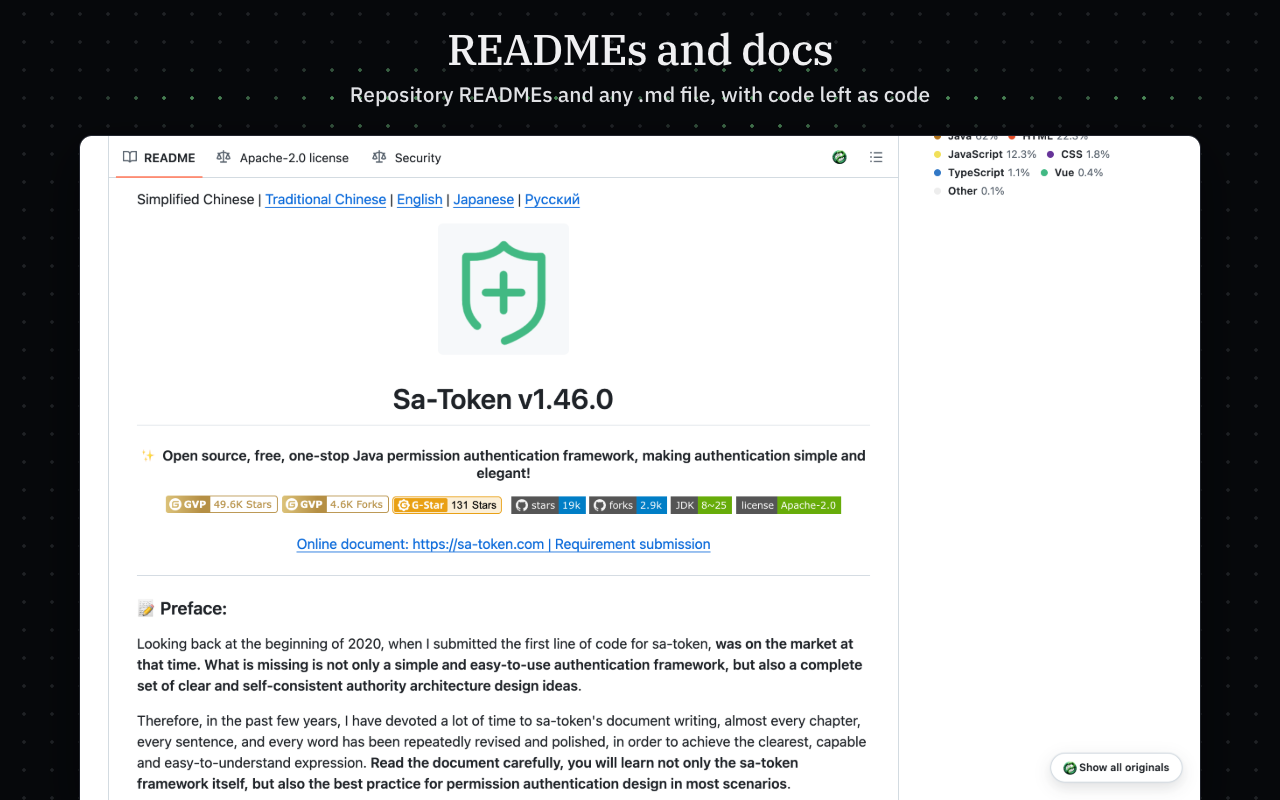
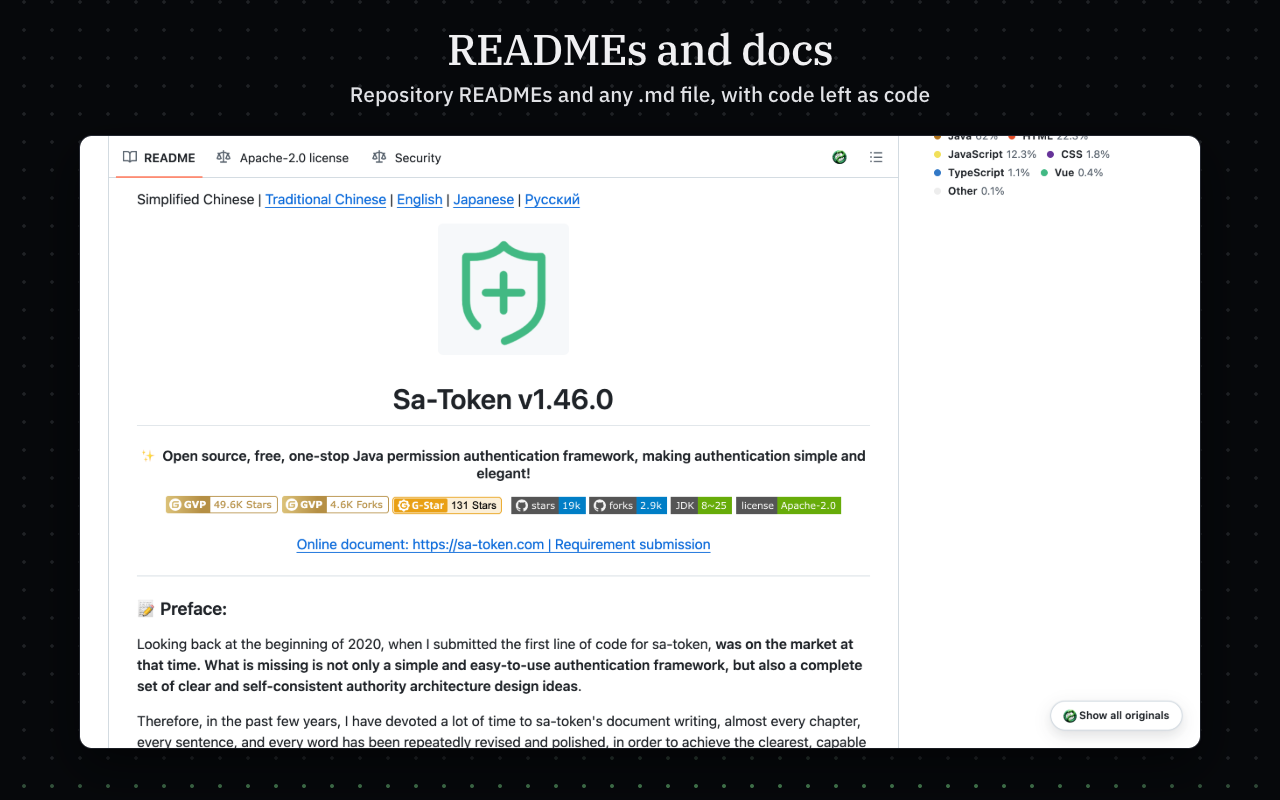
fix(store): anchor the dotted wave to the bottom edge
- Match the FastTools banner by fading the lit dots upward from the edge.
- Leave room below each capture for the dotted wave.

diff --git a/store/promo/promo.css b/store/promo/promo.css
@@ -22,19 +22,17 @@ body {
   -webkit-font-smoothing: antialiased;
 }
 
-/* The FastTools grid, with brighter dots forming a signal across it. */
+/* The FastTools grid with a dotted wave rising from the lower edge. */
 .bg {
   --dot-step: 28px;
   --dot-size: 1.5px;
-  --dot-origin: center bottom;
-  --signal-y: calc(100% - var(--dot-step) * 2.5);
-  --signal-height: 90px;
+  --wave-depth: 88px;
   position: relative;
   isolation: isolate;
   overflow: hidden;
   background: var(--canvas)
     radial-gradient(circle, rgb(146 149 159 / .18) var(--dot-size), transparent calc(var(--dot-size) + .35px))
-    var(--dot-origin) / var(--dot-step) var(--dot-step);
+    center bottom / var(--dot-step) var(--dot-step);
 }
 
 .bg::before {
@@ -42,16 +40,13 @@ body {
   position: absolute;
   inset: 0;
   z-index: -1;
-  background: radial-gradient(circle, rgb(92 180 107 / .7) var(--dot-size), transparent calc(var(--dot-size) + .55px))
-    var(--dot-origin) / var(--dot-step) var(--dot-step);
+  background: radial-gradient(circle, rgb(92 180 107 / .75) var(--dot-size), transparent calc(var(--dot-size) + .9px))
+    center bottom / var(--dot-step) var(--dot-step);
   mask-image:
-    radial-gradient(ellipse 49% 10px at 50% var(--signal-y), rgb(0 0 0 / .48), transparent),
-    radial-gradient(ellipse 8% calc(var(--signal-height) * .55) at 15% var(--signal-y), #000 18%, transparent),
-    radial-gradient(ellipse 8% calc(var(--signal-height) * .85) at 29% var(--signal-y), #000 36%, transparent),
-    radial-gradient(ellipse 8% calc(var(--signal-height) * .45) at 43% var(--signal-y), #000 20%, transparent),
-    radial-gradient(ellipse 10% var(--signal-height) at 60% var(--signal-y), #000 42%, transparent),
-    radial-gradient(ellipse 8% calc(var(--signal-height) * .55) at 76% var(--signal-y), #000 22%, transparent),
-    radial-gradient(ellipse 7% calc(var(--signal-height) * .4) at 89% var(--signal-y), #000 18%, transparent);
+    linear-gradient(to top, rgb(0 0 0 / .45), transparent calc(var(--wave-depth) * .6)),
+    radial-gradient(ellipse 30% calc(var(--wave-depth) * .74) at 24% 100%, #000, transparent),
+    radial-gradient(ellipse 26% var(--wave-depth) at 55% 100%, #000, transparent),
+    radial-gradient(ellipse 24% calc(var(--wave-depth) * .82) at 78% 100%, #000, transparent);
   pointer-events: none;
 }
 

diff --git a/store/promo/screenshot.html b/store/promo/screenshot.html
@@ -5,9 +5,7 @@
 <link rel="stylesheet" href="promo.css">
 <style>
   .shot {
-    --dot-origin: center top;
-    --signal-y: calc(var(--dot-step) * 3.5);
-    --signal-height: 56px;
+    --wave-depth: 52px;
     height: 100vh;
     padding: 26px 80px 0;
     text-align: center;
@@ -20,7 +18,7 @@
     left: 50%;
     width: var(--window-width);
     translate: -50% 0;
-    border-radius: 12px 12px 0 0;
+    border-radius: 12px;
     box-shadow: 0 18px 48px rgb(0 0 0 / .5), 0 0 0 1px var(--line);
   }
 </style>

diff --git a/store/promo/small-tile.html b/store/promo/small-tile.html
@@ -9,7 +9,7 @@
   .tile {
     --dot-step: 18px;
     --dot-size: 1.1px;
-    --signal-height: 52px;
+    --wave-depth: 52px;
     height: 100%;
     display: grid;
     justify-items: center;
